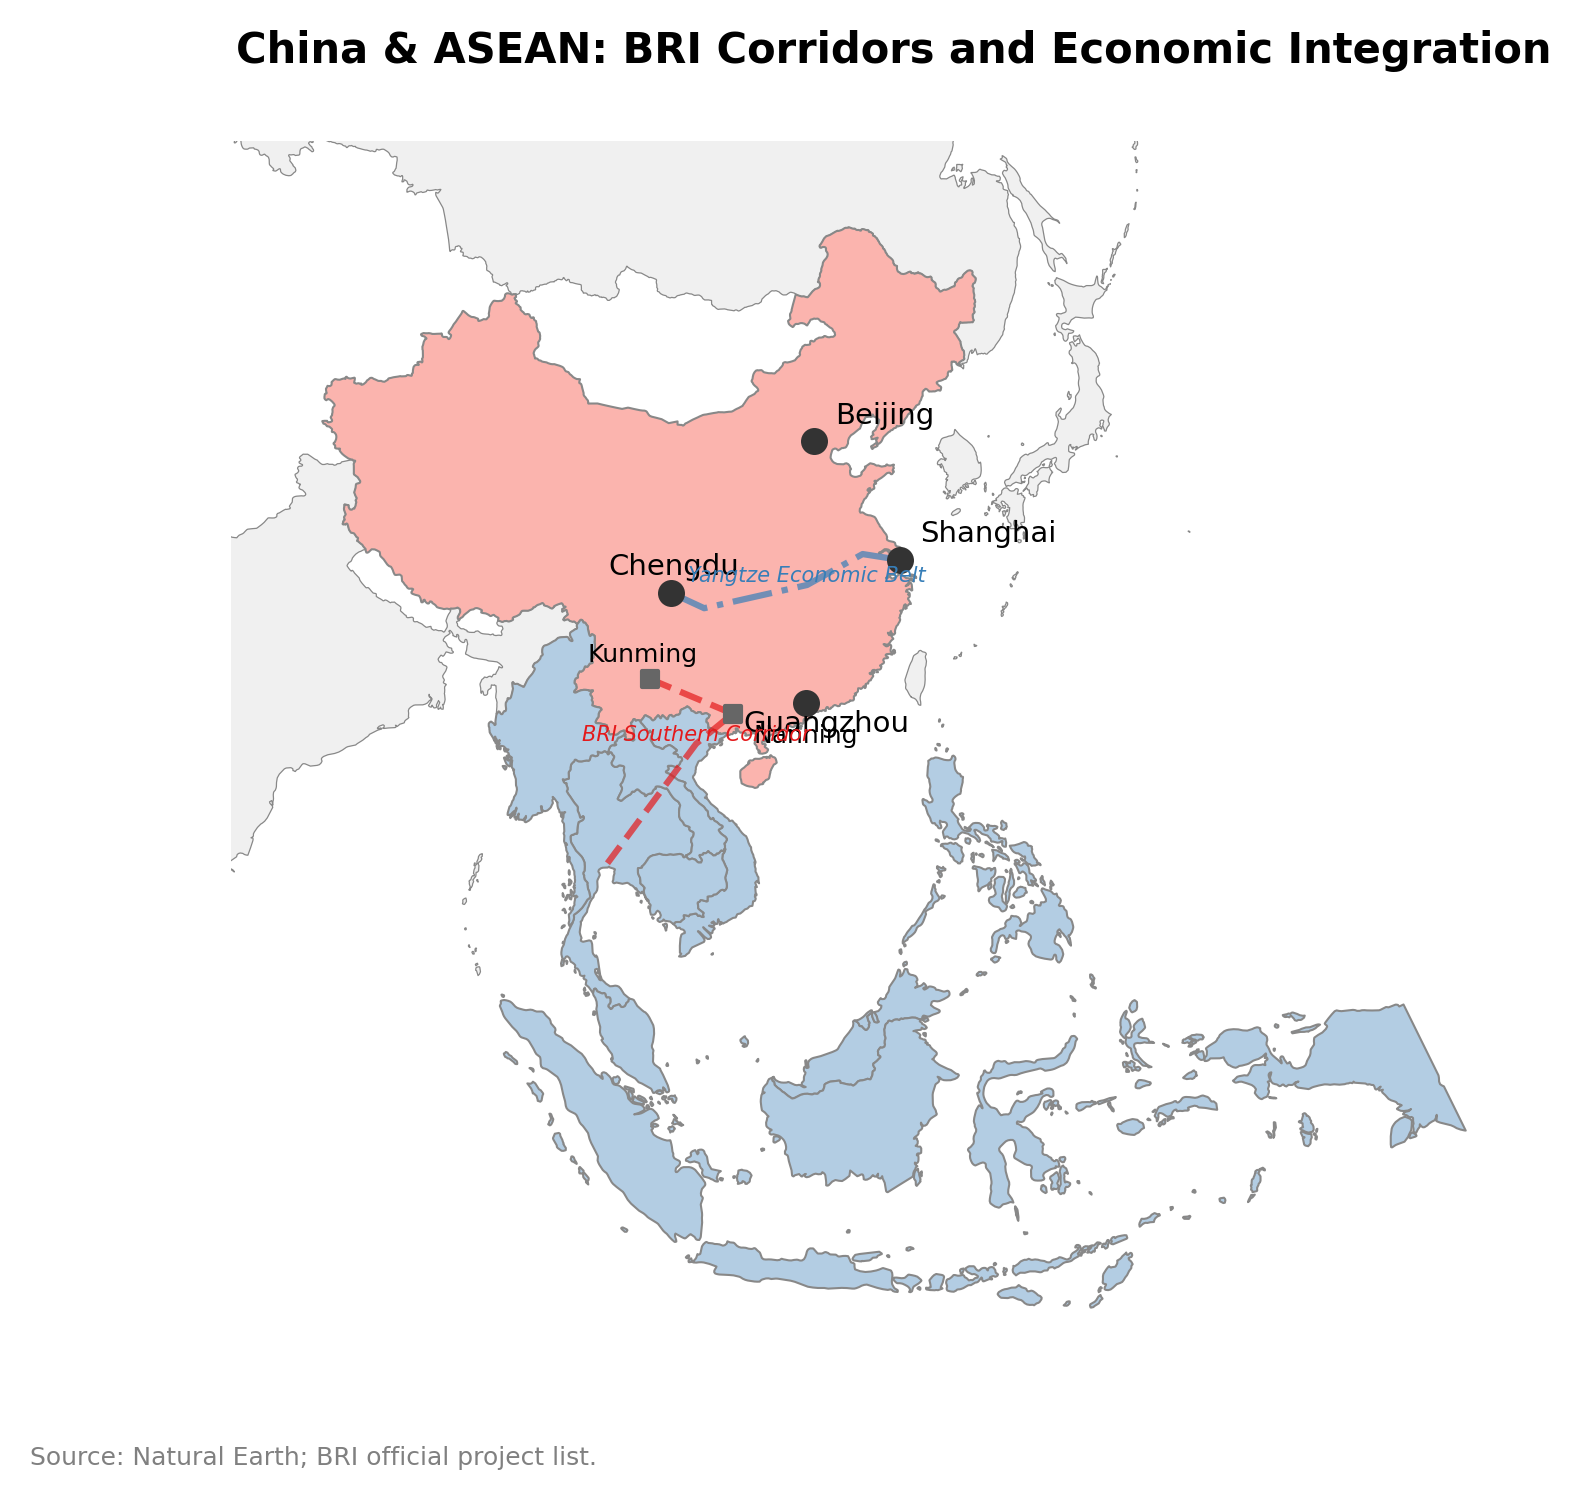
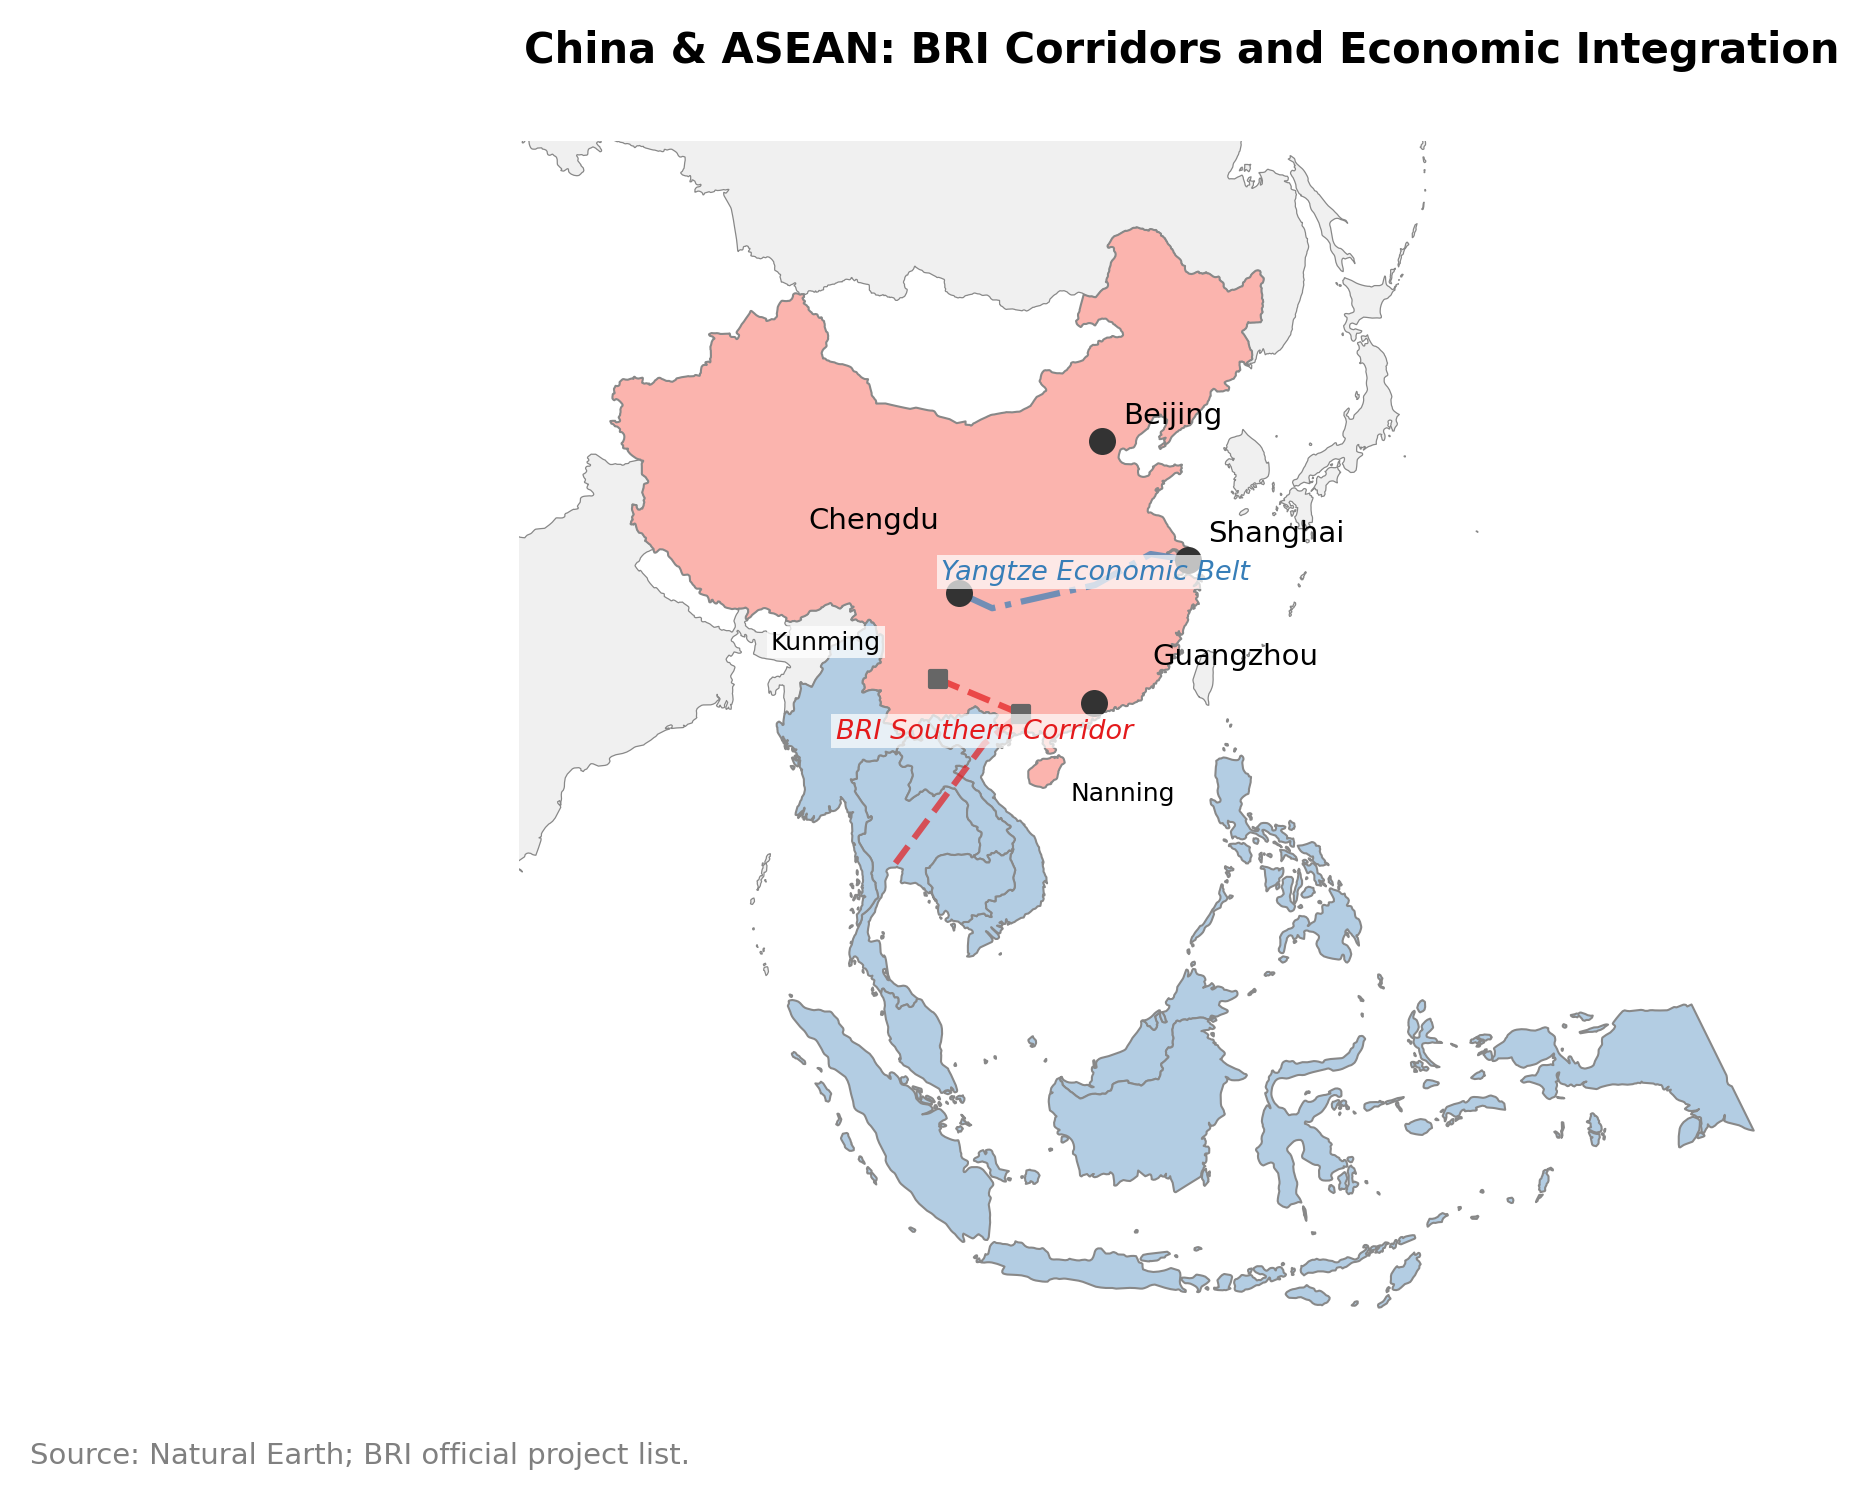
Fix C-range map label collisions and add Gulf inset to Chapter 11.
Widen priority maps, retune border/Levant/China offsets, correct Ch. 9 figure order, and regenerate outputs.

diff --git a/figures/ch11_figures.py b/figures/ch11_figures.py
@@ -67,20 +67,64 @@ def plot_mena_energy_map(output_dir: Path, seed: int = 42) -> dict:
     if ann.get("cities"):
         annotate_cities(ax, project_cities(ann["cities"], crs))
 
-    # Energy field markers (project to map CRS) — alternate offsets to reduce overlap
+    # Energy field markers on main map (markers only; labels live in Gulf inset)
     energy_zones = ann.get("energy_zones", [])
     if energy_zones:
-        proj_zones = project_cities(energy_zones, crs)  # same lon/lat structure
-        offset_cycle = [(5, 5), (-5, 8), (5, -8), (-5, -5), (8, 3), (-8, 3)]
-        for idx, field in enumerate(proj_zones):
+        proj_zones = project_cities(energy_zones, crs)
+        for field in proj_zones:
             ax.plot(field["lon"], field["lat"], "^", color="#c44e52",
-                    markersize=7, zorder=5, alpha=0.8)
-            dx, dy = offset_cycle[idx % len(offset_cycle)]
-            ax.annotate(field["name"], (field["lon"], field["lat"]),
-                        fontsize=6, ha="left", va="bottom",
-                        xytext=(dx, dy), textcoords="offset points",
-                        color="#c44e52",
-                        bbox=dict(facecolor="white", alpha=0.85, edgecolor="none", pad=1))
+                    markersize=6, zorder=5, alpha=0.8)
+
+    # Gulf inset: dense UAE/Qatar/fields cluster
+    from mpl_toolkits.axes_grid1.inset_locator import inset_axes
+    from matplotlib.patches import Rectangle
+
+    gulf_iso = {"ARE", "QAT", "BHR", "KWT"}
+    gulf = mena_proj[mena_proj["iso3"].isin(gulf_iso | {"SAU", "OMN", "IRN"})]
+    if not gulf.empty:
+        axins = inset_axes(ax, width="38%", height="38%", loc="upper right",
+                           borderpad=0.8)
+        for cv in gulf["_color"].unique():
+            subset = gulf[gulf["_color"] == cv]
+            subset.plot(ax=axins, color=cv, edgecolor=BORDER_COLOR,
+                        linewidth=0.4, alpha=0.7)
+        gx0, gy0, gx1, gy1 = gulf.total_bounds
+        # Focus on Arabian Gulf littoral
+        axins.set_xlim(gx0 + (gx1 - gx0) * 0.35, gx1 + (gx1 - gx0) * 0.02)
+        axins.set_ylim(gy0 + (gy1 - gy0) * 0.35, gy1 - (gy1 - gy0) * 0.05)
+        axins.set_xticks([])
+        axins.set_yticks([])
+        axins.set_title("Gulf inset", fontsize=6, pad=2)
+        for spine in axins.spines.values():
+            spine.set_edgecolor("#555555")
+            spine.set_linewidth(0.8)
+
+        inset_cities = ann.get("gulf_inset_cities", [])
+        if inset_cities:
+            annotate_cities(axins, project_cities(inset_cities, crs))
+        if energy_zones:
+            inset_zones = project_cities(energy_zones, crs)
+            offset_cycle = [(6, 6), (-8, 8), (6, -10)]
+            for idx, field in enumerate(inset_zones):
+                axins.plot(field["lon"], field["lat"], "^", color="#c44e52",
+                           markersize=5, zorder=5, alpha=0.9)
+                odx, ody = offset_cycle[idx % len(offset_cycle)]
+                axins.annotate(
+                    field["name"], (field["lon"], field["lat"]),
+                    fontsize=5.5, ha="left", va="bottom",
+                    xytext=(odx, ody), textcoords="offset points",
+                    color="#c44e52",
+                    bbox=dict(facecolor="white", alpha=0.85, edgecolor="none", pad=0.5),
+                )
+
+        # Indicate inset extent on main map
+        rect = Rectangle(
+            (gx0 + (gx1 - gx0) * 0.35, gy0 + (gy1 - gy0) * 0.35),
+            (gx1 - gx0) * 0.67, (gy1 - gy0) * 0.60,
+            linewidth=0.8, edgecolor="#555555", facecolor="none",
+            linestyle="--", zorder=7,
+        )
+        ax.add_patch(rect)
 
     from matplotlib.patches import Patch
     from matplotlib.lines import Line2D
@@ -93,7 +137,8 @@ def plot_mena_energy_map(output_dir: Path, seed: int = 42) -> dict:
     ax.legend(handles=legend_items, fontsize=5.5, loc="lower left", frameon=False)
 
     add_figure_source(fig, "Natural Earth; EIA International Energy Statistics.")
-    fig.tight_layout(rect=[0, 0.03, 1, 1])
+    # inset_axes is incompatible with tight_layout; pad manually for source note
+    fig.subplots_adjust(left=0.04, right=0.98, top=0.94, bottom=0.06)
     paths = save_figure(fig, output_dir, "fig_ch11_map_mena_energy")
     plt.close(fig)
     return {"figure": "fig_ch11_map_mena_energy", "type": "map", **paths}

diff --git a/figures/ch07_figures.py b/figures/ch07_figures.py
@@ -16,7 +16,7 @@ matplotlib.use("Agg")
 import matplotlib.pyplot as plt
 
 from figure_utils import (
-    FIGSIZE_MAP, FIGSIZE_THEMATIC, LAND_COLOR, WATER_COLOR, BORDER_COLOR,
+    FIGSIZE_MAP, FIGSIZE_THEMATIC, FIGSIZE_WIDE, LAND_COLOR, WATER_COLOR, BORDER_COLOR,
     REGION_COLORS, add_figure_source, save_figure, save_summary,
     add_common_args, get_output_dir, setup_map_ax, load_annotations,
     annotate_cities, annotate_corridors, project_cities, project_corridors,
@@ -36,7 +36,7 @@ def plot_china_asean_map(output_dir: Path, seed: int = 42) -> dict:
     focus = world[world["iso3"].isin(["CHN"] + asean)]
     context = world[world["iso3"].isin(["IND", "JPN", "KOR", "TWN", "RUS"])]
 
-    fig, ax = plt.subplots(figsize=FIGSIZE_MAP)
+    fig, ax = plt.subplots(figsize=FIGSIZE_WIDE)
     try:
         focus_proj = focus.to_crs(PROJECTIONS["east_asia"])
         ctx_proj = context.to_crs(PROJECTIONS["east_asia"])

diff --git a/figures/ch04_figures.py b/figures/ch04_figures.py
@@ -42,7 +42,7 @@ def plot_north_america_map(output_dir: Path, seed: int = 42) -> dict:
         ["GTM", "BLZ", "HND", "CUB", "JAM", "HTI", "DOM"]
     )]
 
-    fig, ax = plt.subplots(figsize=FIGSIZE_MAP)
+    fig, ax = plt.subplots(figsize=(7.5, 5.5))
     try:
         na_proj = na.to_crs(PROJECTIONS["americas"])
         ctx_proj = context.to_crs(PROJECTIONS["americas"])

diff --git a/figures/ch12_figures.py b/figures/ch12_figures.py
@@ -45,7 +45,7 @@ def plot_conflict_zones_map(output_dir: Path, seed: int = 42) -> dict:
 
     mena["_color"] = mena["iso3"].map(color_fn)
 
-    fig, ax = plt.subplots(figsize=FIGSIZE_MAP)
+    fig, ax = plt.subplots(figsize=FIGSIZE_WIDE)
     try:
         mena_proj = mena.to_crs(PROJECTIONS["mena"])
         ctx_proj = context.to_crs(PROJECTIONS["mena"])

diff --git a/chapters/ch09_single_market_convergence.md b/chapters/ch09_single_market_convergence.md
@@ -71,9 +71,9 @@ The empirical literature on Cohesion Fund effectiveness is large, methodological
 **Conditional vs. Absolute Convergence.** *Absolute convergence* holds that poorer regions grow faster than richer regions unconditionally, eventually reaching the same income level. *Conditional convergence* holds that regions converge toward their own steady state, which depends on institutional quality, human capital, and policy environment --- meaning that two regions with different institutions may converge at different rates toward different endpoints. The EU evidence strongly supports conditional convergence: regions with stronger institutions and higher human capital stocks show larger growth responses to the same Cohesion Fund transfers (Becker et al. 2013), implying that institutional environment mediates the convergence process.
 {% endhint %}
 
-Figure 9.3 presents the convergence fan chart, plotting GDP per capita trajectories for EU member states relative to the EU average, illustrating the divergent paths of the CEE convergence club versus the Mediterranean periphery.
+Figure 9.2 presents the convergence fan chart, plotting GDP per capita trajectories for EU member states relative to the EU average, illustrating the divergent paths of the CEE convergence club versus the Mediterranean periphery.
 
-![Figure 9.3: EU convergence fan — GDP per capita trajectories relative to EU average](../figures/fig_ch09_convergence_fan.png)
+![Figure 9.2: EU convergence fan — GDP per capita trajectories relative to EU average](../figures/fig_ch09_convergence_fan.png)
 
 *Source: Author calculation from Eurostat regional accounts. Convergence charts are constructed series; see Lab 4 eligibility-threshold notes.*
 
@@ -187,7 +187,7 @@ Brexit severed London from the Single Market for services, and the consequences 
 
 The spatial pattern of these relocations reveals the gravitational forces that operate in services trade. Each destination city has attracted a specific functional specialization: Dublin has become the EU base for technology companies and fintech; Frankfurt has attracted banking operations that need ECB proximity; Amsterdam has captured euro-denominated trading; Paris has drawn asset management and advisory functions. No single city has replaced London — the agglomeration economies that made London dominant cannot be replicated — but the forced dis-integration of Brexit has distributed functions across multiple European cities, creating a polycentric financial geography that may prove more resilient than the monocentric model that preceded it. The NEG framework of Chapter 1 provides a useful lens: London's dominance represented a stable equilibrium in a world of low institutional barriers within the Single Market; the imposition of regulatory barriers through Brexit shifted the equilibrium toward polycentricity, and whether the new configuration is stable or transitional depends on whether continental European cities can develop the specialized labor markets, legal infrastructure, and network externalities that sustained London's advantage. The evidence to date suggests that the polycentric structure is self-reinforcing: each city's specialization reduces direct competition among them and creates complementarities (Amsterdam's trading infrastructure feeds Frankfurt's settlement operations, which generate legal work for Luxembourg's fund management), producing a network equilibrium that no single city has an incentive to disrupt.
 
-![Figure 9.2: EU convergence clubs — GDP per capita relative to EU average](../figures/fig_ch09_chart_eu_convergence_bar.png)
+![Figure 9.3: EU convergence clubs — GDP per capita relative to EU average](../figures/fig_ch09_chart_eu_convergence_bar.png)
 *Source: Author calculation from Eurostat (2023). Index: EU27 = 100, PPS-adjusted; NUTS and PPP revision sensitivity noted in text.*
 
 ---

diff --git a/MANUSCRIPT_REVISION_PLAN.md b/MANUSCRIPT_REVISION_PLAN.md
@@ -191,8 +191,8 @@ The manuscript is ready for external review when:
 
 ### P4. Figures and Tables
 
-- [ ] Fix all label collisions and C-range figures identified in the editorial audit.
-- [ ] Add a Gulf inset to the Chapter 11 map.
+- [~] Fix all label collisions and C-range figures identified in the editorial audit. Priority C/C- maps (Ch. 4/7/11/12) regenerated with offset/inset fixes; Ch. 9 figure order corrected (9.2 fan, 9.3 clubs).
+- [x] Add a Gulf inset to the Chapter 11 map.
 - [ ] Split Chapter 16's wide services-regime table.
 - [ ] Use a muted, accessible, color-blind-safe palette.
 - [~] Add source, vintage, method, and uncertainty notes to every figure. Regional/synthesis chapters (4–16) now carry expanded figure source notes; theory chapters pending if needed.
@@ -258,4 +258,5 @@ The manuscript is ready for external review when:
 | 2026-08-03 | P3 / P5 / F1 | Phrase diversification (spatial implication / binding constraint fillers); index generator filters + see-also; regenerated subject index; ledgered Ch. 4/14/16 quantitative claims | `python scripts/generate_index.py` |
 | 2026-08-03 | P1 / F1 | Standardized discussion questions to six per chapter; softened preface count promise; ledgered Ch. 9/10 EU fiscal magnitudes | Question-count script; text review |
 | 2026-08-03 | P2 | Case-selection + comparative notes (CAFTA/Caribbean; Pakistan; Maghreb; francophone WA/Ethiopia); Oceania/Central Asia scope note confirmed | Text review |
+| 2026-08-03 | P4 | Gulf inset on Ch. 11 map; label-offset fixes Ch. 4/7/12; widen C-range maps; renumber Ch. 9 figures | Figure smoke tests ch04/07/11/12 |
 
